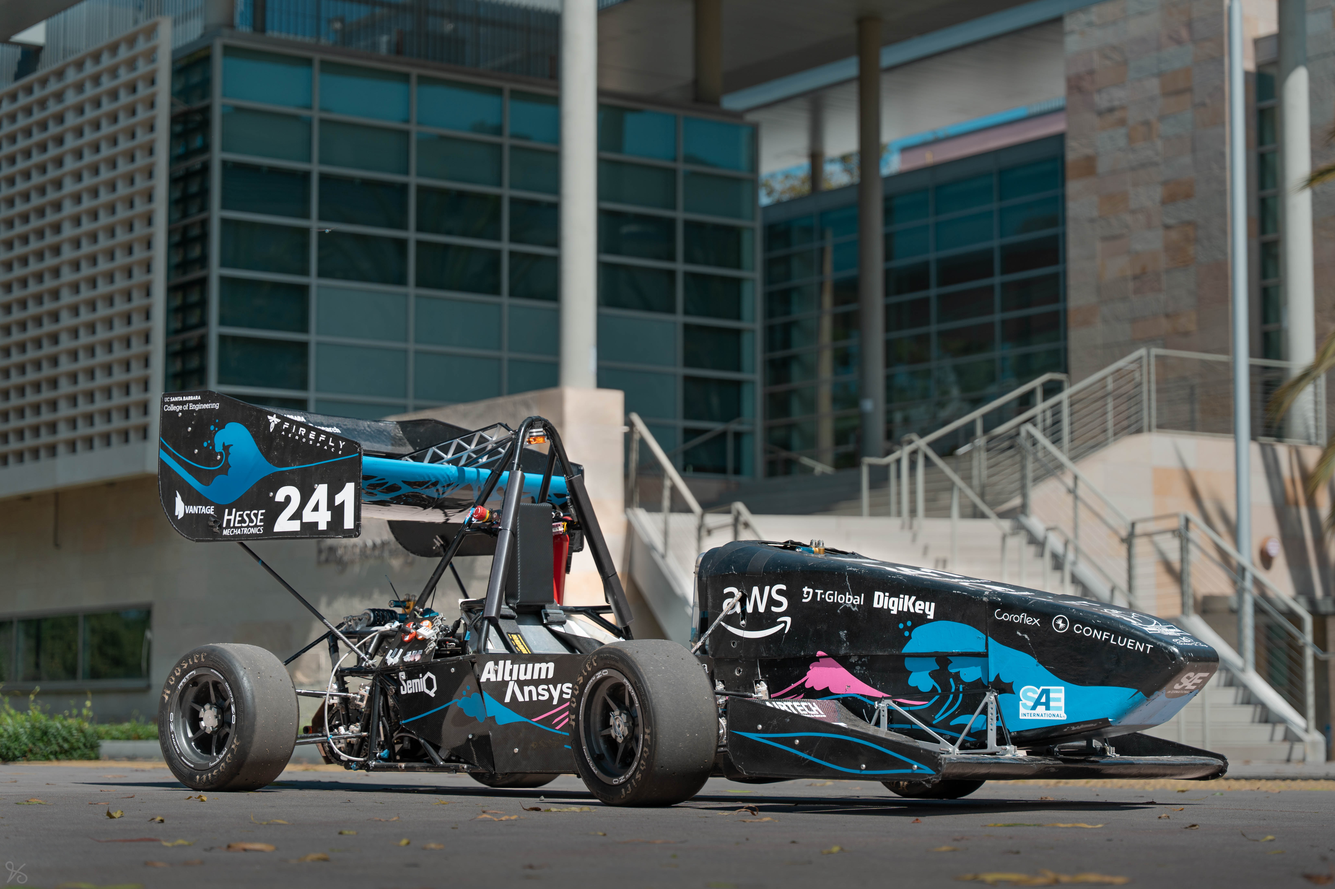
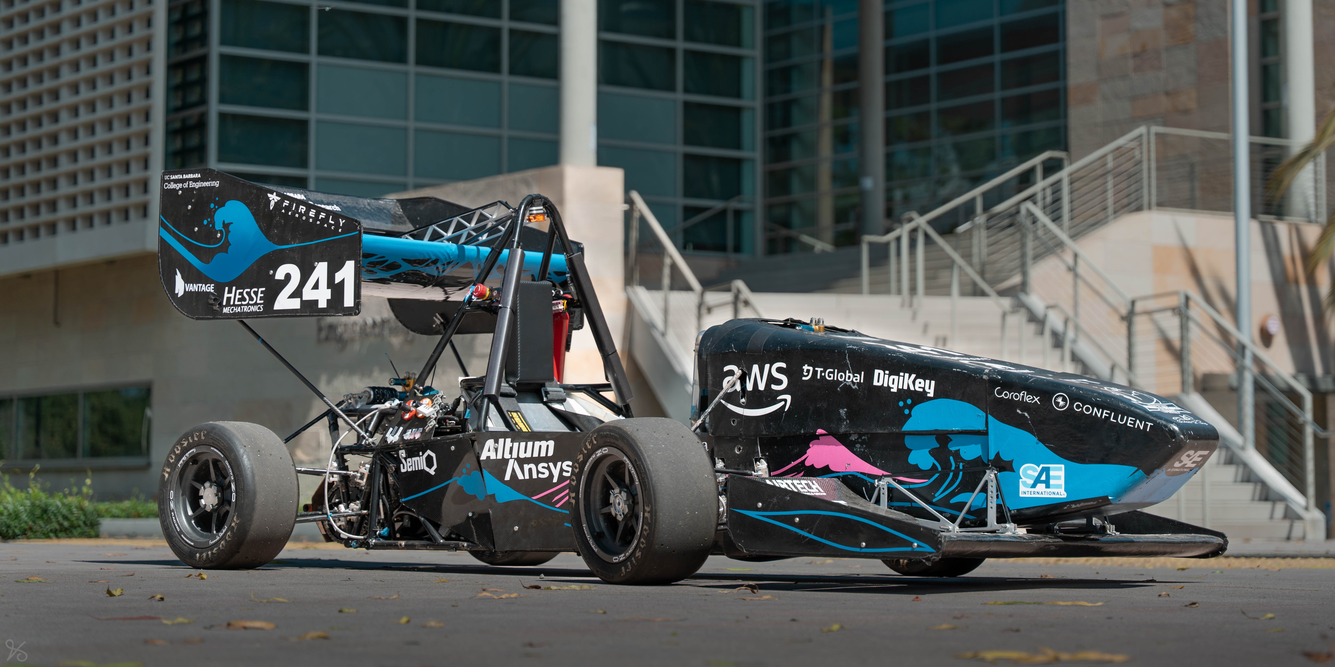
populated fsae page

diff --git a/project-pages/gaucho-racing.html b/project-pages/gaucho-racing.html
@@ -101,8 +101,8 @@
             - Change "desktop.jpeg" to the image filename you uploaded in the assets/images folder.
           -->
         <div class="main-title">Gaucho Racing FSAE</div>
-        <div class="body-text">This page is still under construction.</div>
-        <!-- <image class="project-header-image" src="../assets/images/desktop.jpeg"> -->
+        <!-- <div class="body-text">This page is still under construction.</div> -->
+        <image class="project-header-image" src="../assets/images/gaucho racing/gr25.jpg">
       </div>
 
       <!-- PROJECT DETAILS -->
@@ -113,53 +113,101 @@
         - Add paragraphs using the <div class="body-text"></div> elements in the "project-details-content"
       -->
       <div id="project-details">
-        <div class="subheader-text">Project Details / Background</div>
+        <div class="subheader-text">Program Overview</div>
         <div class="project-details-content">
-          <!-- <div class="body-text">Lorem ipsum dolor sit amet, consectetur adipiscing elit, sed do eiusmod tempor incididunt ut labore et dolore magna aliqua. Tristique risus nec feugiat in fermentum. Sed id semper risus in hendrerit gravida. Placerat duis ultricies lacus sed. Id neque aliquam vestibulum morbi blandit cursus risus. Elit pellentesque habitant morbi tristique senectus et netus et. Elementum tempus egestas sed sed risus pretium quam. Nibh ipsum consequat nisl vel pretium lectus quam id leo. Vitae congue mauris rhoncus aenean vel elit.</div> -->
-          <!-- <div class="body-text">Vitae justo eget magna fermentum. Imperdiet nulla malesuada pellentesque elit eget gravida. Aliquet nec ullamcorper sit amet. Aliquet sagittis id consectetur purus. Ac tortor dignissim convallis aenean. Enim neque volutpat ac tincidunt vitae. Lobortis feugiat vivamus at augue. Platea dictumst vestibulum rhoncus est pellentesque elit ullamcorper. Viverra orci sagittis eu volutpat. Massa tincidunt nunc pulvinar sapien et ligula. Donec enim diam vulputate ut.</div> -->
+
+          <div class="body-text">
+            Formula SAE electric vehicle development team member contributing to 
+            chassis manufacturability, cost documentation, steering system fabrication, 
+            and structural compliance. Served in both technical and organizational roles.
+          </div>
+
+          <!-- TECHNICAL CONTRIBUTIONS -->
+          <div class="subheader-text">Technical Contributions</div>
+
+          <ul class="body-text">
+            <li><strong>Chassis Manufacturability:</strong> Coordinated with steel supplier to ensure weldment geometry and tube specifications were producible and compliant before order release.</li>
+            <li>Generated detailed part drawings and BOMs from SolidWorks weldments to support fabrication and assembly schedule.</li>
+            <li><strong>Structural Equivalency (SES):</strong> Designed and documented tube inserts to meet FSAE structural equivalency requirements.</li>
+            <li>Mentored new members in SolidWorks modeling and drawing standards for chassis development.</li>
+            <li><strong>Steering Wheel:</strong> Designed and fabricated final steering wheel assembly (see dedicated project page).</li>
+            <li><strong>Seat Concept:</strong> Designed composite seat using mechanically tested laminate from materials project (ergonomics package concept, not implemented).</li>
+          </ul>
+
+          <!-- COST ENGINEERING -->
+          <div class="subheader-text">Cost & Competition Engineering</div>
+
+          <ul class="body-text">
+            <li>Managed $40,000+ FSAE cost report spanning dozens of assemblies.</li>
+            <li>Researched FSAE cost rules and developed documentation guidelines for all subteams.</li>
+            <li>Trained members on proper submission through official online cost system.</li>
+            <li>Improved competition scoring at Michigan event through complete and accurate documentation.</li>
+            <li>Implemented system-level cost tracking to align design decisions with scoring strategy.</li>
+          </ul>
+
+          <!-- LEADERSHIP -->
+          <div class="subheader-text">Leadership & Operations</div>
+
+          <ul class="body-text">
+            <li>Served as Team Secretary.</li>
+            <li>Organized meetings, secured campus facilities, and maintained internal communication cadence.</li>
+            <li>Supported cross-functional coordination between chassis, powertrain, and business subteams.</li>
+          </ul>
+
+          <!-- ENGINEERING THEMES -->
+          <div class="subheader-text">Engineering Themes Demonstrated</div>
+
+          <ul class="body-text">
+            <li>Design for Manufacturability (DFM)</li>
+            <li>Supplier coordination and production planning</li>
+            <li>Rule-driven design compliance</li>
+            <li>System-level cost engineering</li>
+            <li>Technical mentorship and documentation standards</li>
+          </ul>
+
         </div>
       </div>
+
 
       <!-- IMAGE GALLERY -->
       <div id="project-gallery">
         <!-- TODO - Change the 'subheader-text' to whatever you want the Gallery section header to say -->
         <div class="subheader-text">Image Gallery</div>
         <div class="project-gallery-content">
-            <!-- 
-              TODO
 
-              This is where the images in the gallery live. Here's a simple gallery image for you to copy:
+          <div class="gallery-image-container half-width">
+            <img src="../assets/images/gaucho racing/vr3 bubble example.jpg" class="gallery-image">
+            <span class="image-caption">Supplier-facing chassis drawing with bubbles to ensure manufacturable tube geometry.</span>
+          </div>
 
-              Full Width Image:
+          <div class="gallery-image-container half-width">
+            <img src="../assets/images/gaucho racing/vr3 1.jpg" class="gallery-image">
+            <span class="image-caption">Iterative chassis weldment refinement to resolve manufacturability and compliance constraints.</span>
+          </div>
 
-                <div class="gallery-image-container">
-                  <img src="../assets/images/IMAGE_NAME" class="gallery-image">
-                  <span class="image-caption">IMAGE_CAPTION</span>
-                </div>
+          <div class="gallery-image-container half-width">
+            <img src="../assets/images/gaucho racing/ses example.jpg" class="gallery-image">
+            <span class="image-caption">Structural Equivalency (SES) tube insert documentation supporting rule compliance.</span>
+          </div>
 
-              Half Width Image: 
+          <div class="gallery-image-container half-width">
+            <img src="../assets/images/steering wheel/resin steewhee in car.jpg" class="gallery-image">
+            <span class="image-caption">Final steering wheel assembly integrated into vehicle (see dedicated project page).</span>
+          </div>
 
-                <div class="gallery-image-container half-width">
-                  <img src="../assets/images/IMAGE_NAME" class="gallery-image">
-                  <span class="image-caption">IMAGE_CAPTION</span>
-                </div>
+          <div class="gallery-image-container half-width">
+            <img src="../assets/images/mechanical testing/vacuum bagging 2.jpg" class="gallery-image">
+            <span class="image-caption">Vacuum-bag fabrication of composite sandwich panel used for seat concept validation.</span>
+          </div>
 
-              - To add an image to the this area, copy one of the above, paste it below this comment, and change the following:
-                  - IMAGE_NAME: the name of the image file in assets/images
-                  - IMAGE_CAPTION: to the caption of the image
-            -->
-            <!-- <div class="gallery-image-container half-width">
-              <img src="../assets/images/code.jpeg" class="gallery-image">
-              <span class="image-caption">Give your image a caption. People love context.</span>
-            </div>
-            <div class="gallery-image-container half-width">
-              <img src="../assets/images/sketchbook.jpeg" class="gallery-image">
-              <span class="image-caption">Give your image a caption. People love context.</span>
-            </div>
-            <div class="gallery-image-container">
-              <img src="../assets/images/camera.jpeg" class="gallery-image">
-              <span class="image-caption">Give your image a caption. People love context.</span>
-            </div> -->
+          <div class="gallery-image-container half-width">
+            <img src="../assets/images/gaucho racing/ergo seat.jpg" class="gallery-image">
+            <span class="image-caption">Early-stage composite seat concept developed for driver ergonomics package.</span>
+          </div>
+
+
+
+
         </div>
       </div>
     </div>
